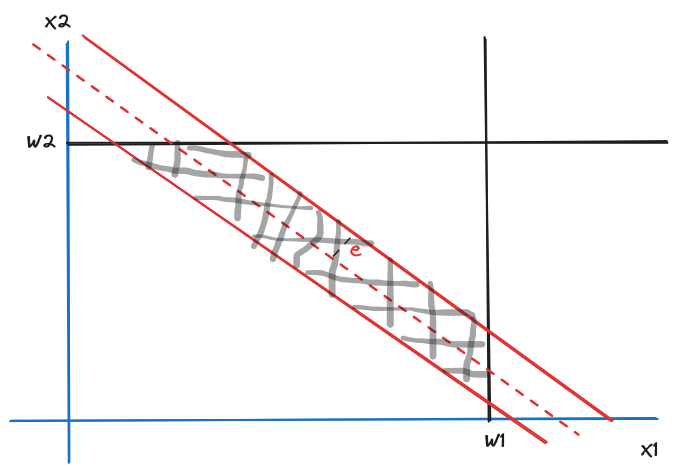
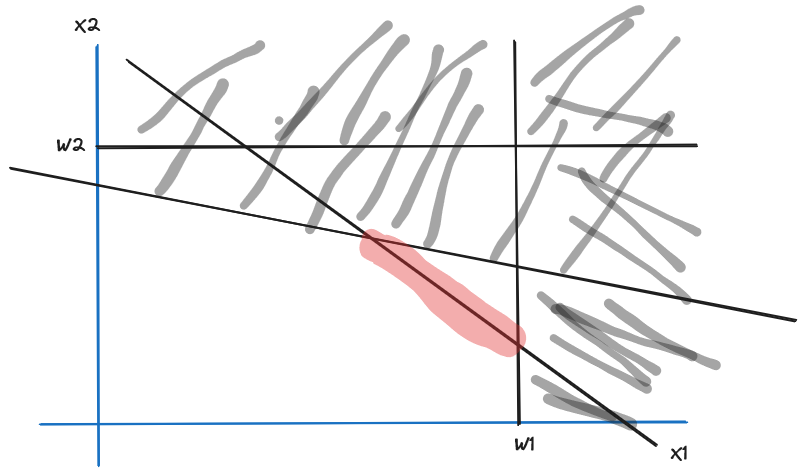
Rename biogas to methane

diff --git a/page_home.py b/page_home.py
@@ -16,16 +16,16 @@ st.header('Περιγραφή προβλήματος', divider='rainbow')
 
 st.markdown("""
 Διαθέτουμε ένα σύνολο αποβλήτων ή υποστρωμάτων **S<sub>i</sub>** (S1, S2, S3, ..) για την παραγωγή μεθανίου με τα παρακάτω χαρακτηριστικά:
-- **B**: Δυναμικό παραγωγής μεθανίου (L<sub>CH4</sub>/KgVS)
+- **Μ**: Δυναμικό παραγωγής μεθανίου (L<sub>CH4</sub>/KgVS)
 - **W**: Μέγιστο διαθέσιμο βάρος (Kg)
 - **F**: Ποσοστό σε λίπη (%)
 - **C**: Κόστος ανά Kg (Euro/Kg)
 - **D**: Απόσταση από τη μονάδα (Km). Η απόσταση επηρεάζει το κόστος μεταφοράς και επομένως το συνολικό κόστος. 
 
-Το ζητούμενο είναι να βρεθεί η **βέλτιστη σύνθεση σε βάρος (Kg) των υποστρωμάτων** **X<sub>i</sub>** (X1, X2, X3, ...) που θα ελαχιστοποιεί το συνολικό κόστος υποστρωμάτων **Κ** ενώ θα πετυχαίνει τον στόχο ημερίσιας παραγωγής μεθανίου **T** με μια απόκλιση +/- **e** %.
-Θεωρούμε ότι το τελικό μίγμα θα τροφοδοτήσει τη μονάδα για n=10 ημέρες.           
+Το ζητούμενο είναι να βρεθεί η **βέλτιστη σύνθεση σε βάρος (Kg) των υποστρωμάτων** **X<sub>i</sub>** (X1, X2, X3, ...) που θα ελαχιστοποιεί το συνολικό κόστος υποστρωμάτων **Κ** ενώ θα πετυχαίνει τον στόχο ημερίσιας παραγωγής μεθανίου **T**.
+Θεωρούμε ότι το τελικό μίγμα θα τροφοδοτήσει τη μονάδα για τις επόμενες n=7 ημέρες.           
 
-**Συνάρτηση κόστους K (objective function):**
+## Συνάρτηση κόστους K (objective function):
 
 Ελαχιστοποίησε το κόστος Κ. Το συνολικό κόστος ισούται με το κόστος αγοράς Kα συν το κόστος μεταφοράς Kμ. Επομένως:
             
@@ -40,22 +40,25 @@ Kμ = Σ(Di * Xi), δηλαδή γραμμικά ανάλογα με τα κιλ
             
 Κ = Σ(Ci * Xi + Di * Xi) = Σ ((Ci+Di) * Xi)
 
-**Υπό τους περιορισμούς (constraints):**
+## Περιορισμοί (constraints):
 
-α) Η παραγωγή του μεθανίου πρέπει να είναι σε ένα εύρος του στόχου.
+### α) Παραγωγή του μεθανίου
+Η παραγωγή του μεθανίου πρέπει να πιάνει έναν στόχο Τ. Επειδή αναζητούμε μια σύνθεση σε κιλά αποβλήτων πρέπει να ορίσουμε και τον αριθμό των ημερών που θα χρησιμοποιθούν για την παραγωγή.
+Θεωρούμε ότι το τελικό μίγμα θα τροφοδοτήσει τη μονάδα για ένα συγκεκριμένο αριθμό ημερών (π.χ n=7). Επομένως η συνολική παραγωγή ισούθται:
             
-Επειδή αναζητούμε μια σύνθεση σε κιλά αποβλήτων πρέπει να ορίσουμε και τον αριθμό των ημερών που θα χρησιμοποιθούν για την παραγωγή.
-Θεωρούμε ότι το τελικό μίγμα θα τροφοδοτήσει τη μονάδα για ένα συγκεκριμένο αριθμό ημερών (π.χ n=10). Επομένως η παραγωγή πρέπει να είναι στο εύρος:
+n * T = Σ(Μi * Xi)
             
-n * T * (1-e) <= Σ(Bi * Xi) <= n * T * (1+e)
-            
-Υπενθυμίζουμε ότι **Τ είναι ο ημερήσιος στόχος παραγωγής μεθανίου** και e η απόκλιση στόχου σε ποσοστό.
+Υπενθυμίζουμε ότι **Τ είναι ο ημερήσιος στόχος παραγωγής μεθανίου**.
 
-β) Το συνολικό βάρος των υποστρωμάτων πρέπει να είναι μικρότερο ή ίσο του διαθέσιμου:
+### β) Διαθέσιμο βάρος
+
+Το βάρος των υποστρωμάτων πρέπει να είναι μικρότερο ή ίσο του διαθέσιμου: 
 
 0 <= Xi <= Wi (Το διαθέσιμο βάρος κάθε υποστρώματος)
             
-γ) Το συνολικό ποσοστό λίπους του μίγματος πρέπει να είναι μικρότερο ή ίσο του 10%:
+### γ) Ποσοστό λίπους
+
+Το συνολικό ποσοστό λίπους του μίγματος πρέπει να είναι μικρότερο ή ίσο του 10%:
 
 Total fat <= 10% Total Weight
 
@@ -71,8 +74,10 @@ st.subheader('Παράδειγμα')
 
 """
 Αν θεωηρήσουμε δύο υποστρώματα τότε οι περιορισμοί για τις τιμές X1 και X2 φαίνονται στο παρακάτω διάγραμμα.
-Η κόκκινη γραμμή εκφράζει τον περιορισμό παραγωγής μεθανίου, οι μαύρες γραμμές τον περιορισμό βάρους.
-Το πεδίο τιμών είναι η περιοχή με τις διαγράμμιση.
+Όλοι οι περιορισμοί είναι γραμμικές σχέσεις και επομενως αναπαριστούνται ως ευθείες γραμμές με μαύρο χρώμα.
+Αν ο περιορισμός είναι ισότητα τότε οι τα x που ικανοποιούν την σχέση βρίσκονται πάνω στη γραμμή. Αν είναι ανισότητα τότε βρίσκονται κάτω ή από τη γραμμή.
+Στο παράδειγμα μας με κόκκινο χρώμα είναι η περιοχή που ικανοποιεί όλους τους περιορισμούς.
+Ο αλγόριθμός γραμικού προγραμματισμού θα βρει το ζεύγχος x1, x2 το οποίο ελαχιστοποιεί την συνάρτηση κόστους.
 """
 
-st.image('constraints-diagram.png', caption='Sunrise by the mountains')
+st.image('constraints-diagram.png', caption='Γραφική αναπαράσταση γραμικών περιορισμών')

diff --git a/page_tool.py b/page_tool.py
@@ -69,7 +69,7 @@ def get_prediction(key=None):
             st.button("Save", help="Save the prediction to the database", type="primary")
 
 initial_df = pd.DataFrame({
-    'Biogas': [9, 10],
+    'Methane': [9, 10],
     'Weight': [60, 50],
     'Fat': [0.11, 0.08],
     'Cost': [2, 2],
@@ -93,7 +93,7 @@ current_df = st.data_editor(st.session_state.df, num_rows="dynamic")
 Εδώ επιλέξετε τις βασικές παραμέτρους για τον υπολογισμό της βέλτιστης λύσης.
 """
 
-col1, col2, col3 = st.columns(3)
+col1, col2 = st.columns(2)
 with col1:
     target = st.number_input('Ημερήσια παραγωγή μεθανίου (T)',
                              value=100, min_value=10, max_value=1000)
@@ -102,9 +102,7 @@ with col2:
     n = st.number_input('Ημέρες παραγωγής', value=10,
                         min_value=1, max_value=30)
 
-with col3:
-    error_pct = st.number_input('Απόκλιση στόχου (%)', value=0,
-                                min_value=0, max_value=30, help='Do not use!')
+
 
 multiple_targets_help_text = """
 Επιλέγοντας αυτή την επιλογή η εφαρμογή θα διερευνήσει λύσεις για διάφορες τιμές γύρω από τον στόχο παραγωγής μεθανίου.
@@ -113,8 +111,8 @@ multiple_targets = st.checkbox(
     'Διευρεύνση λύσεων κοντά στο στόχο?', key='many_solutions', help=multiple_targets_help_text)
 
 total_target = target*n
-deviation = (total_target*error_pct) / 100
-st.write(f"Βασικός στόχος παραγωγής για {n} ημέρες: {total_target} ± {deviation:.2f}")
+
+st.write(f"Βασικός στόχος παραγωγής CH4 για {n} ημέρες: {total_target} Liters")
 
 """
 Κάντε κλικ στο κουμπί **SOLVE** για να υπολογιστούν οι λύσεις.
@@ -133,7 +131,7 @@ if st.button('Solve LP', type="primary"):
 
         test_target = total_target + (i/100)*total_target
 
-        solution = solve_lp(current_df, test_target, deviation)
+        solution = solve_lp(current_df, test_target, 0)
         if solution:
             st.success(f"Βρέθηκε βέλτιση λύση για στόχο {test_target}", icon="✅")
             st.write(f"Κόστος {solution['cost']:.2f} Ευρώ")

diff --git a/solver.py b/solver.py
@@ -43,7 +43,7 @@ def solve_lp(df, total_target=1000, deviation=0):
     ct1 = solver.Constraint(total_target - deviation, total_target + deviation, "ct1")
     for var_name, var in x.items():
         # print(df.loc[var_name, 'B'])
-        ct1.SetCoefficient(var, df.loc[var_name, 'Biogas'])
+        ct1.SetCoefficient(var, df.loc[var_name, 'Methane'])
 
     # Create a linear constraint Σ(xi(Fi-0.1)) <=0
     ct2 = solver.Constraint(-solver.infinity(), 0, "ct2")

diff --git a/test_solver.py b/test_solver.py
@@ -4,7 +4,7 @@ from solver import solve_lp
 substrate_names = ['S1', 'S2']
 
 test_df = pd.DataFrame({
-    'Biogas': [9, 10],
+    'Methane': [9, 10],
     'Weight': [60, 50],
     'Fat': [0.11, 0.08],
     'Cost': [2, 2],
